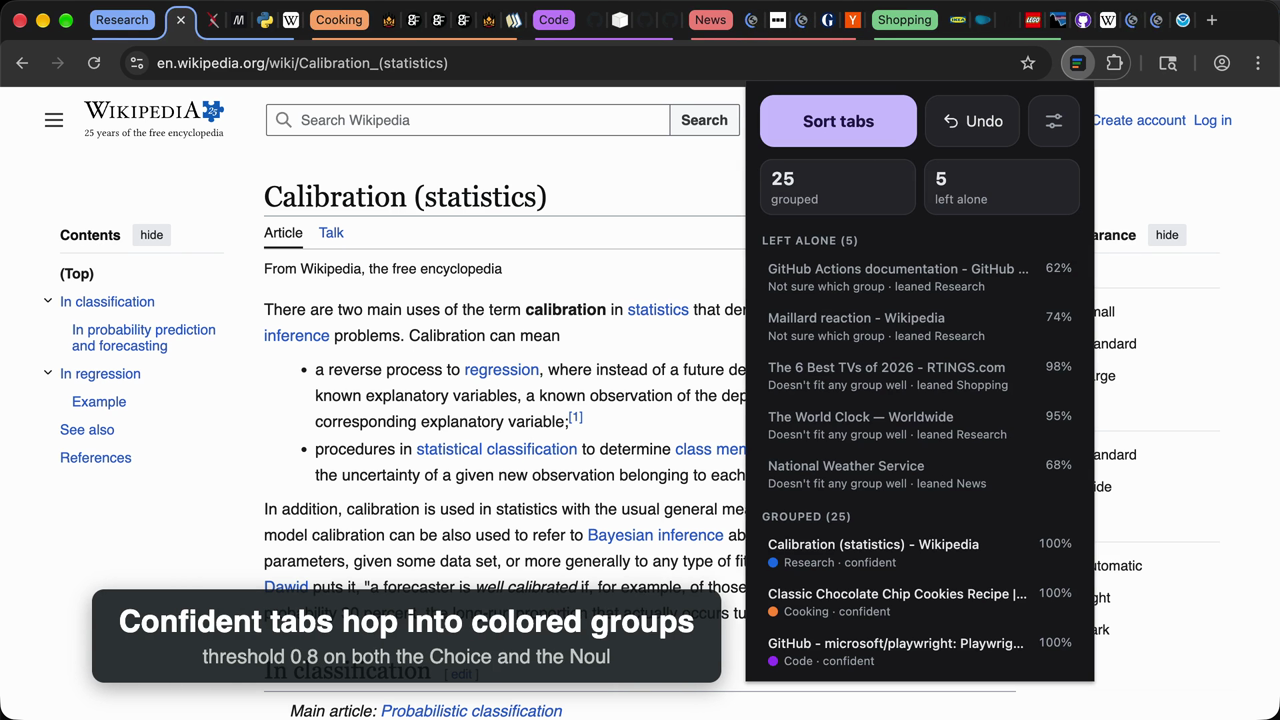
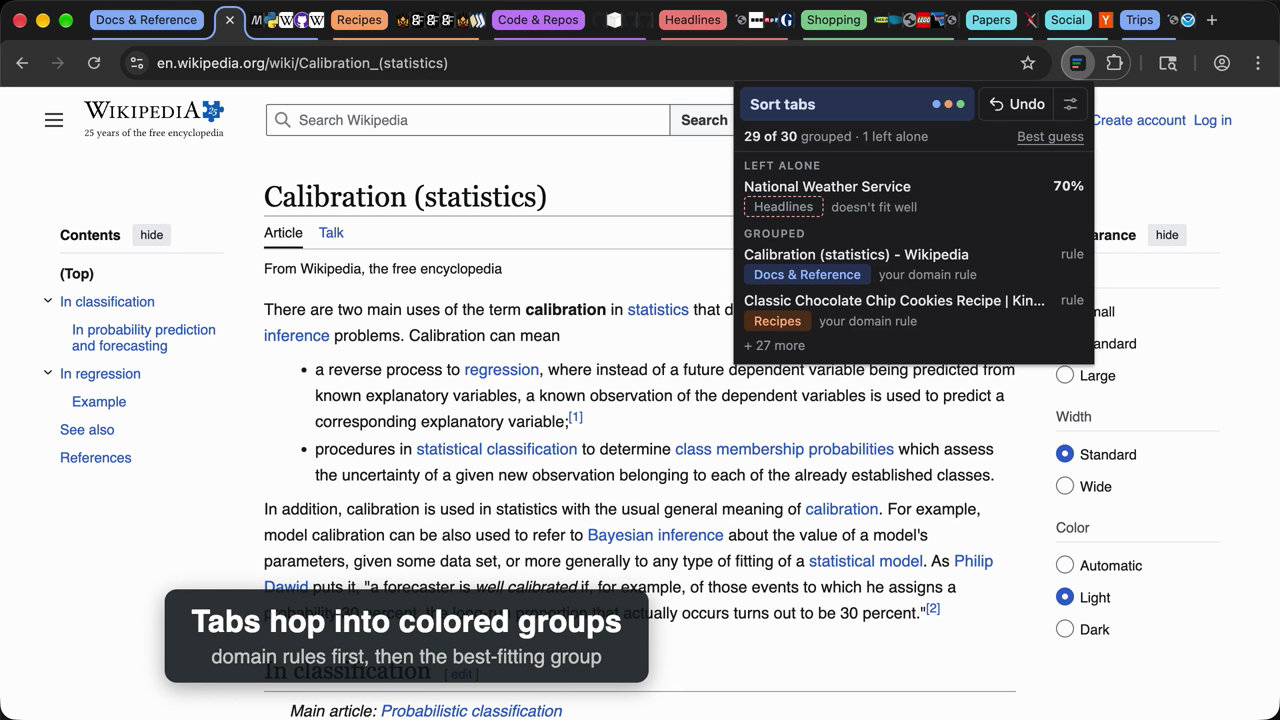
docs: new demo recorded with the current popup, README intro matches current behaviour

diff --git a/demo/edit.ts b/demo/edit.ts
@@ -43,10 +43,10 @@ export async function edit(raw: string, log: RunLog, report: SortReport, opts: {
   const speed = classify > 3 ? classify / 2.5 : 1;
   const segs: Array<{ from: number; to: number; speed: number; text: string; sub?: string }> = [
     { from: e.messy!, to: e.popup!, speed: 1, text: `${report.results.length} open tabs. No order.`, sub: mode },
-    { from: e.popup!, to: e.sortClick! + 0.3, speed: 1, text: "Open tab-triage from the toolbar", sub: "one request per tab: Choice + companion Noul" },
+    { from: e.popup!, to: e.sortClick! + 0.3, speed: 1, text: "Open tab-triage from the toolbar", sub: "no account, no API key" },
     { from: e.sortClick! + 0.3, to: e.sorted!, speed, text: speed > 1 ? `Classifying… (sped up ${speed.toFixed(1)}×)` : "Classifying…", sub: mode },
-    { from: e.sorted!, to: e.leftAlone!, speed: 1, text: "Confident tabs hop into colored groups", sub: "threshold 0.8 on both the Choice and the Noul" },
-    { from: e.leftAlone!, to: e.collapsed!, speed: 1, text: "Not sure? Left alone, with its probability", sub: "ungrouped beats wrongly grouped" },
+    { from: e.sorted!, to: e.leftAlone!, speed: 1, text: "Tabs hop into colored groups", sub: "domain rules first, then the best-fitting group" },
+    { from: e.leftAlone!, to: e.collapsed!, speed: 1, text: "Nothing fits? Left alone, with its best guess", sub: "ungrouped beats wrongly grouped" },
     { from: e.collapsed!, to: e.undone!, speed: 1, text: "Collapse the groups", sub: mode },
     { from: e.undone!, to: e.end!, speed: 1, text: "Undo puts every tab back", sub: "order and groups restored from a snapshot" },
   ];

diff --git a/demo/run.ts b/demo/run.ts
@@ -79,6 +79,13 @@ if (RECORD && mac) {
 const urls = (JSON.parse(readFileSync("demo/urls.json", "utf8")) as { tabs: Array<{ url: string }> }).tabs.map((t) => t.url);
 console.log(`[demo] building extension…`);
 run("node", ["scripts/build.mjs"]);
+// The hosted service only accepts the website download's pinned extension id, so give this
+// throwaway build the same public key. dist/ is rebuilt without it by the next `npm run build`.
+if (!MOCK) {
+  const { key } = JSON.parse(readFileSync("scripts/download-key.json", "utf8")) as { key: string };
+  const mf = JSON.parse(readFileSync("dist/manifest.json", "utf8")) as Record<string, unknown>;
+  writeFileSync("dist/manifest.json", JSON.stringify({ ...mf, key }, null, 2) + "\n");
+}
 
 // A run killed with SIGKILL or a crash can't clean up after itself, and chrome.storage's
 // remove() is only a logical delete, so sweep profiles left by earlier runs.

diff --git a/demo/cards.ts b/demo/cards.ts
@@ -18,7 +18,7 @@ export async function titleCard(page: Page, path: string, mode: string) {
     `<div style="height:100%;display:flex;flex-direction:column;justify-content:center;align-items:center;gap:28px">
       <div style="display:flex;gap:14px">${["#1a73e8", "#188038", "#fa903e", "#d93025", "#a142f4"].map((c) => `<div style="width:90px;height:18px;border-radius:9px;background:${c}"></div>`).join("")}</div>
       <div style="font-size:112px;font-weight:800;letter-spacing:-2px">tab-triage</div>
-      <div style="font-size:40px;color:#bdc1c6">Sorts tabs into groups, only when a calibrated model is confident.</div>
+      <div style="font-size:40px;color:#bdc1c6">Sort your tabs into groups in one click. Undo puts them back.</div>
       <div style="font-size:28px;color:#9aa0a6;margin-top:16px">Real extension · real Chromium tab strip · ${esc(mode)}</div>
     </div>`,
     path,

diff --git a/README.md b/README.md
@@ -1,6 +1,6 @@
 # tab-triage
 
-A Chrome extension that sorts the tabs in the current window into Chrome tab groups. It only moves a tab when the classifier is confident; the rest stay where they are. **Undo** puts everything back.
+A Chrome extension that sorts the tabs in the current window into Chrome tab groups. Domain rules group the sites you know, a classifier picks the best-fitting group for the rest, and a tab stays where it is when nothing fits. **Undo** puts everything back.
 
 ![tab-triage sorting tabs into groups, then undoing it](demo/demo.gif)
 
